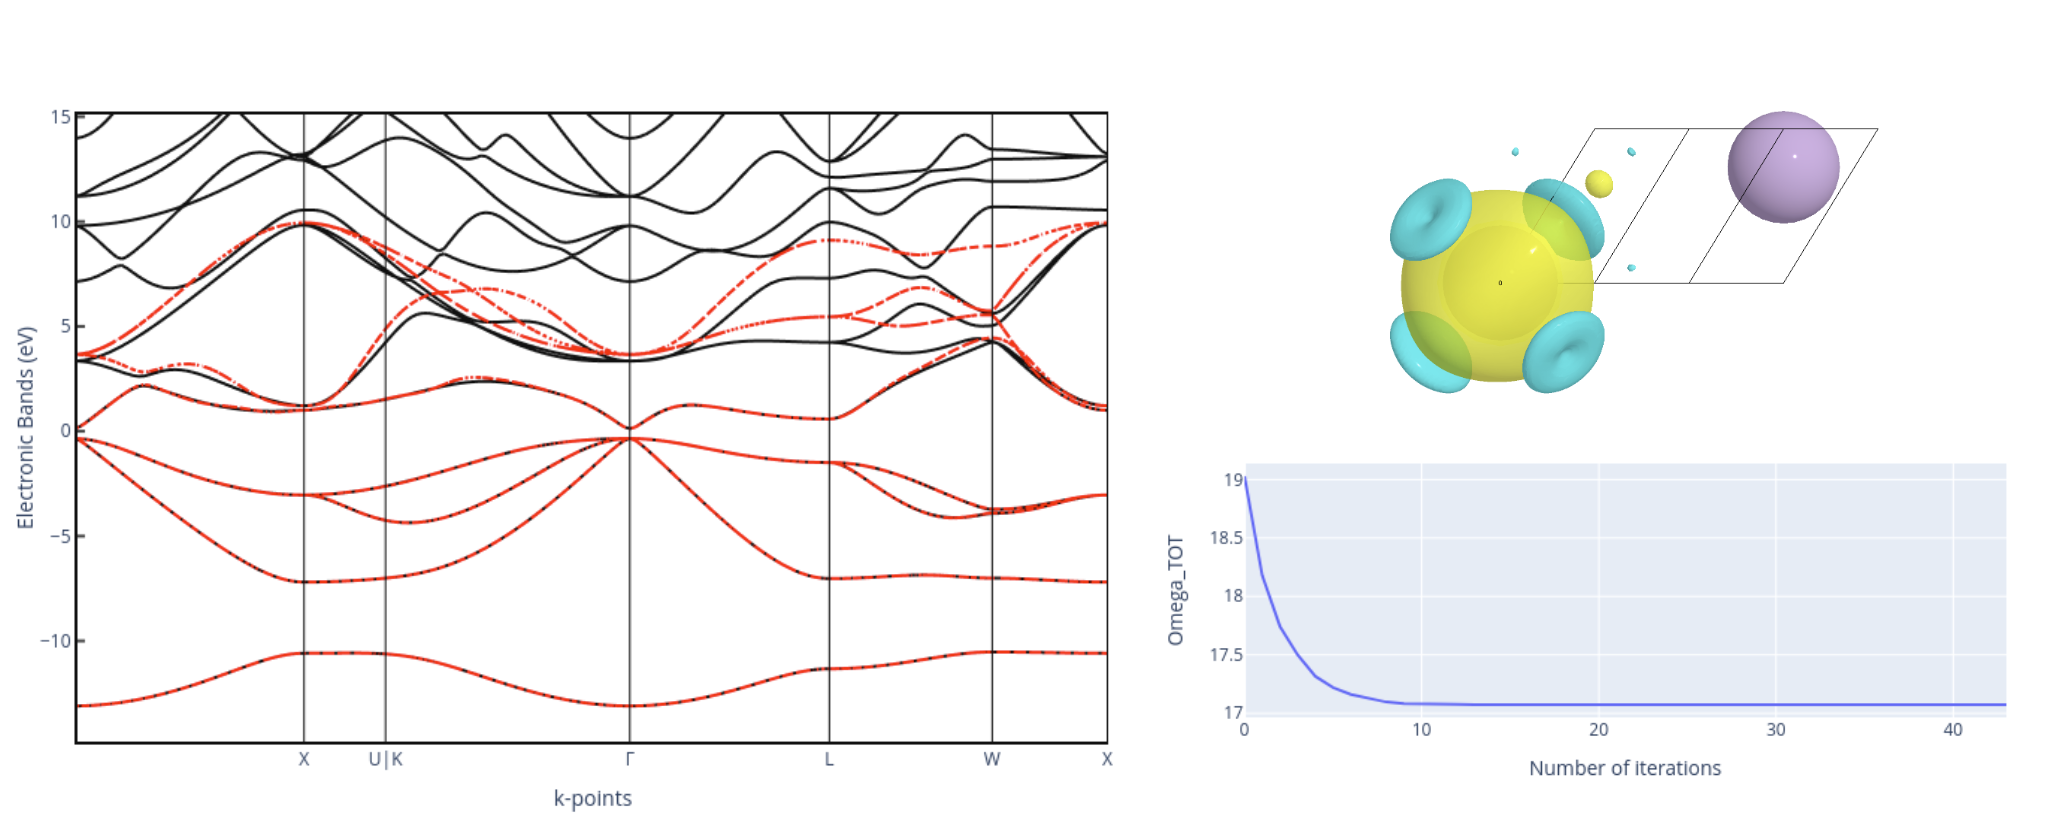
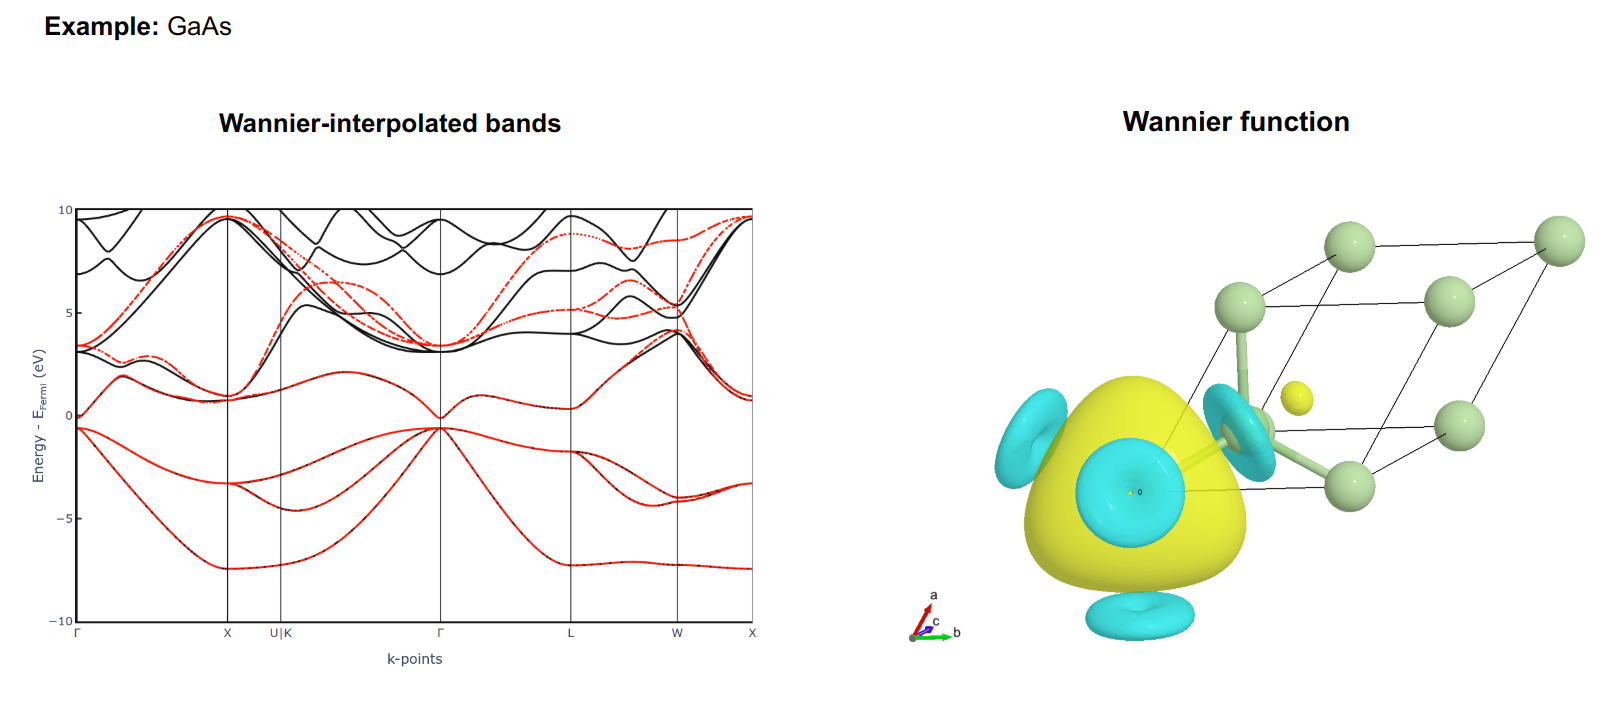
Update pythonjob code setup (#21)
* Update pythonjob code setup

* Update overview image

diff --git a/src/aiidalab_qe_wannier90/result/result.py b/src/aiidalab_qe_wannier90/result/result.py
@@ -107,7 +107,8 @@ class Wannier90ResultsPanel(ResultsPanel[Wannier90ResultsModel]):
         structure_viewer_section = ipw.VBox([
             ipw.HTML('<h3>Structure</h3>'),
             self.structure_viewer,
-        ], layout=ipw.Layout(margin='10px 0'))
+        ], layout=ipw.Layout(width='50%',
+            margin='10px 0'))
 
         # Wannier centers/spreads table
         self.table = TableWidget(style={'margin-top': '10px'})
@@ -122,7 +123,8 @@ class Wannier90ResultsPanel(ResultsPanel[Wannier90ResultsModel]):
             ipw.HTML('<h3>Wannier centers/spreads</h3>'),
             self.table_description,
             self.table
-        ], layout=ipw.Layout(margin='10px 0'))
+        ], layout=ipw.Layout(width='50%',
+            margin='10px 0'))
 
 
 

diff --git a/README.md b/README.md
@@ -5,7 +5,7 @@ A plugin for running Wannier calculations inside the AiiDAlab Quantum ESPRESSO A
 ## Features
 
 - **Band structure comparison** with DFT bands.
-- With predefined protocols (`moderate`, `precise`, `fast`).
+- With predefined protocols (`fast`, `balanced`, `stringent`)
 - **Optional real-space Wannier functions** (3D visualization) with the atomic structure.
 
 <img src="docs/source/_static/images/overview.png"  width="800px"/>
@@ -16,6 +16,30 @@ A plugin for running Wannier calculations inside the AiiDAlab Quantum ESPRESSO A
 
 ## Usage
 Run Wannier calculations via the AiiDAlab QE App GUI.
+
+## PythonJob code
+To setup the `python` code for isosurface calculation, you need to install the following packages in the Python environment:
+
+```
+cloudpickle
+scikit-image
+ase
+```
+
+Here is an example configuration file to setup the `python` code on HPC:
+
+```yaml
+---
+label: python3
+description: python3.9.10 at Merlin 7
+default_calc_job_plugin: pythonjob.pythonjob
+filepath_executable: /opt/psi/Programming/Python/3.9.10/bin/python
+prepend_text: |
+    module purge
+    module load Python/3.9.10
+append_text: ''
+```
+
 
 
 